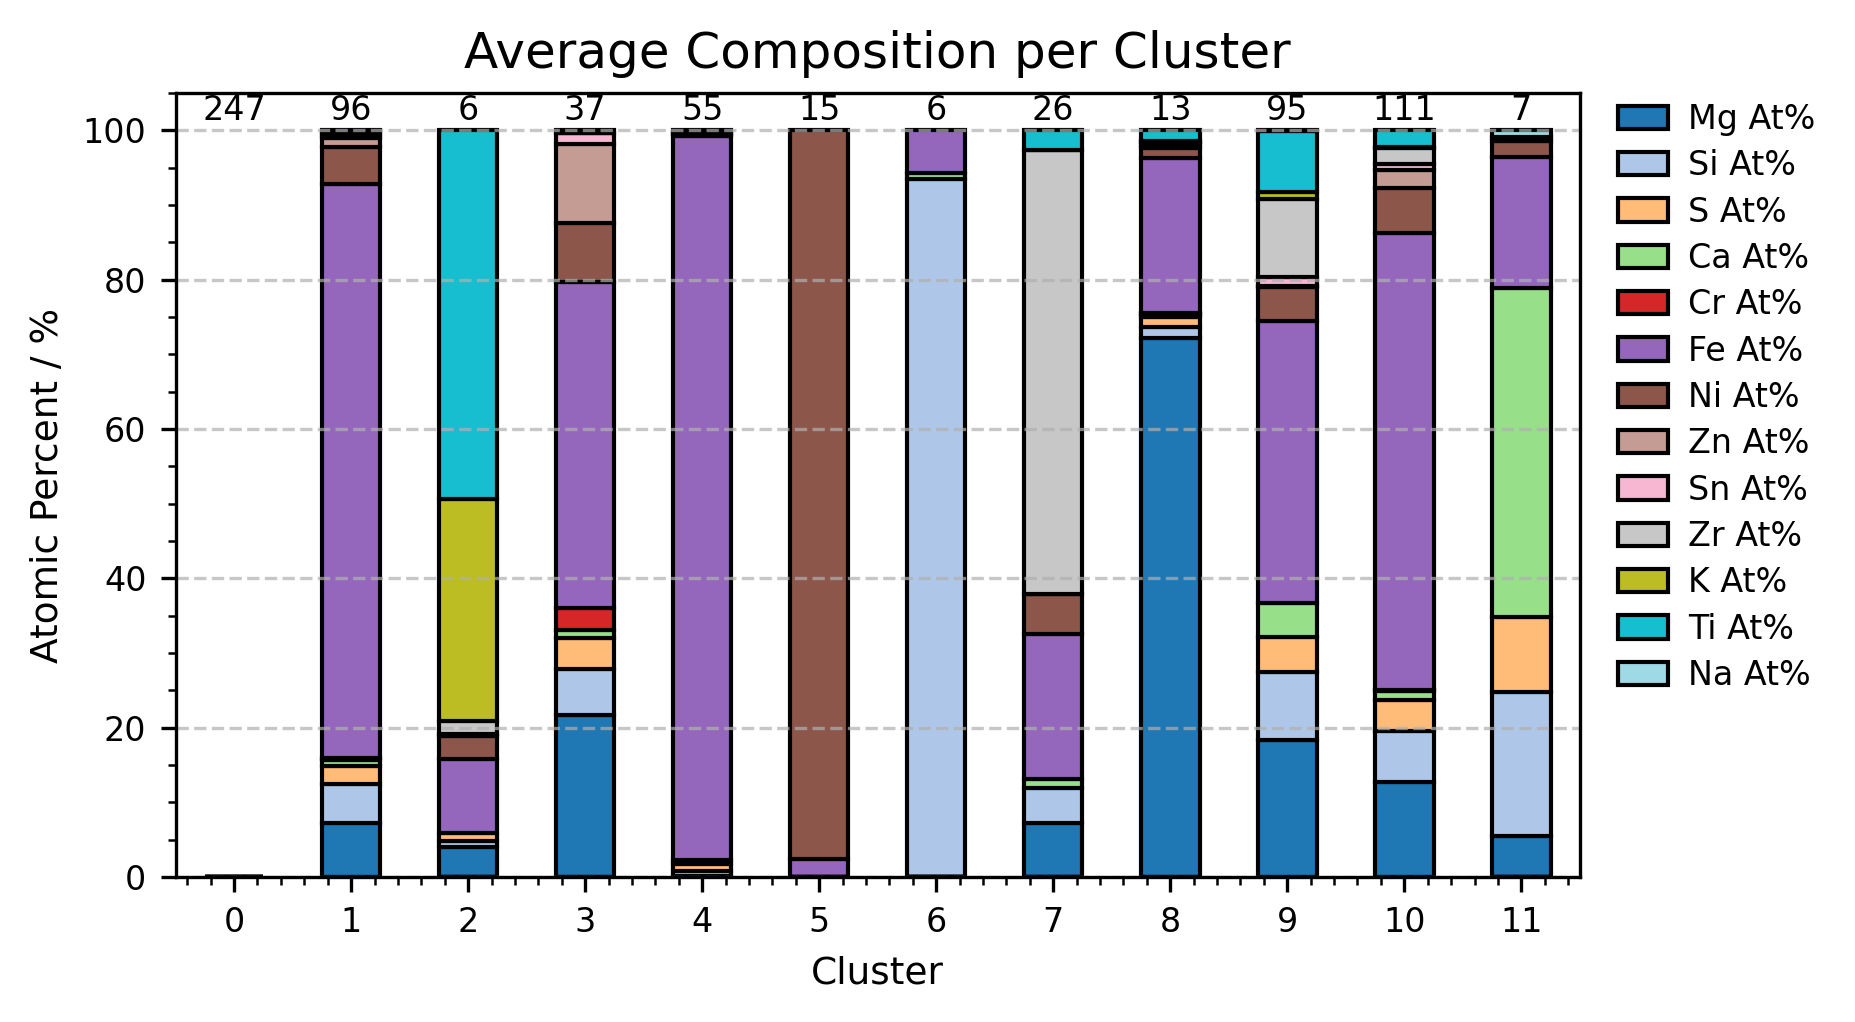
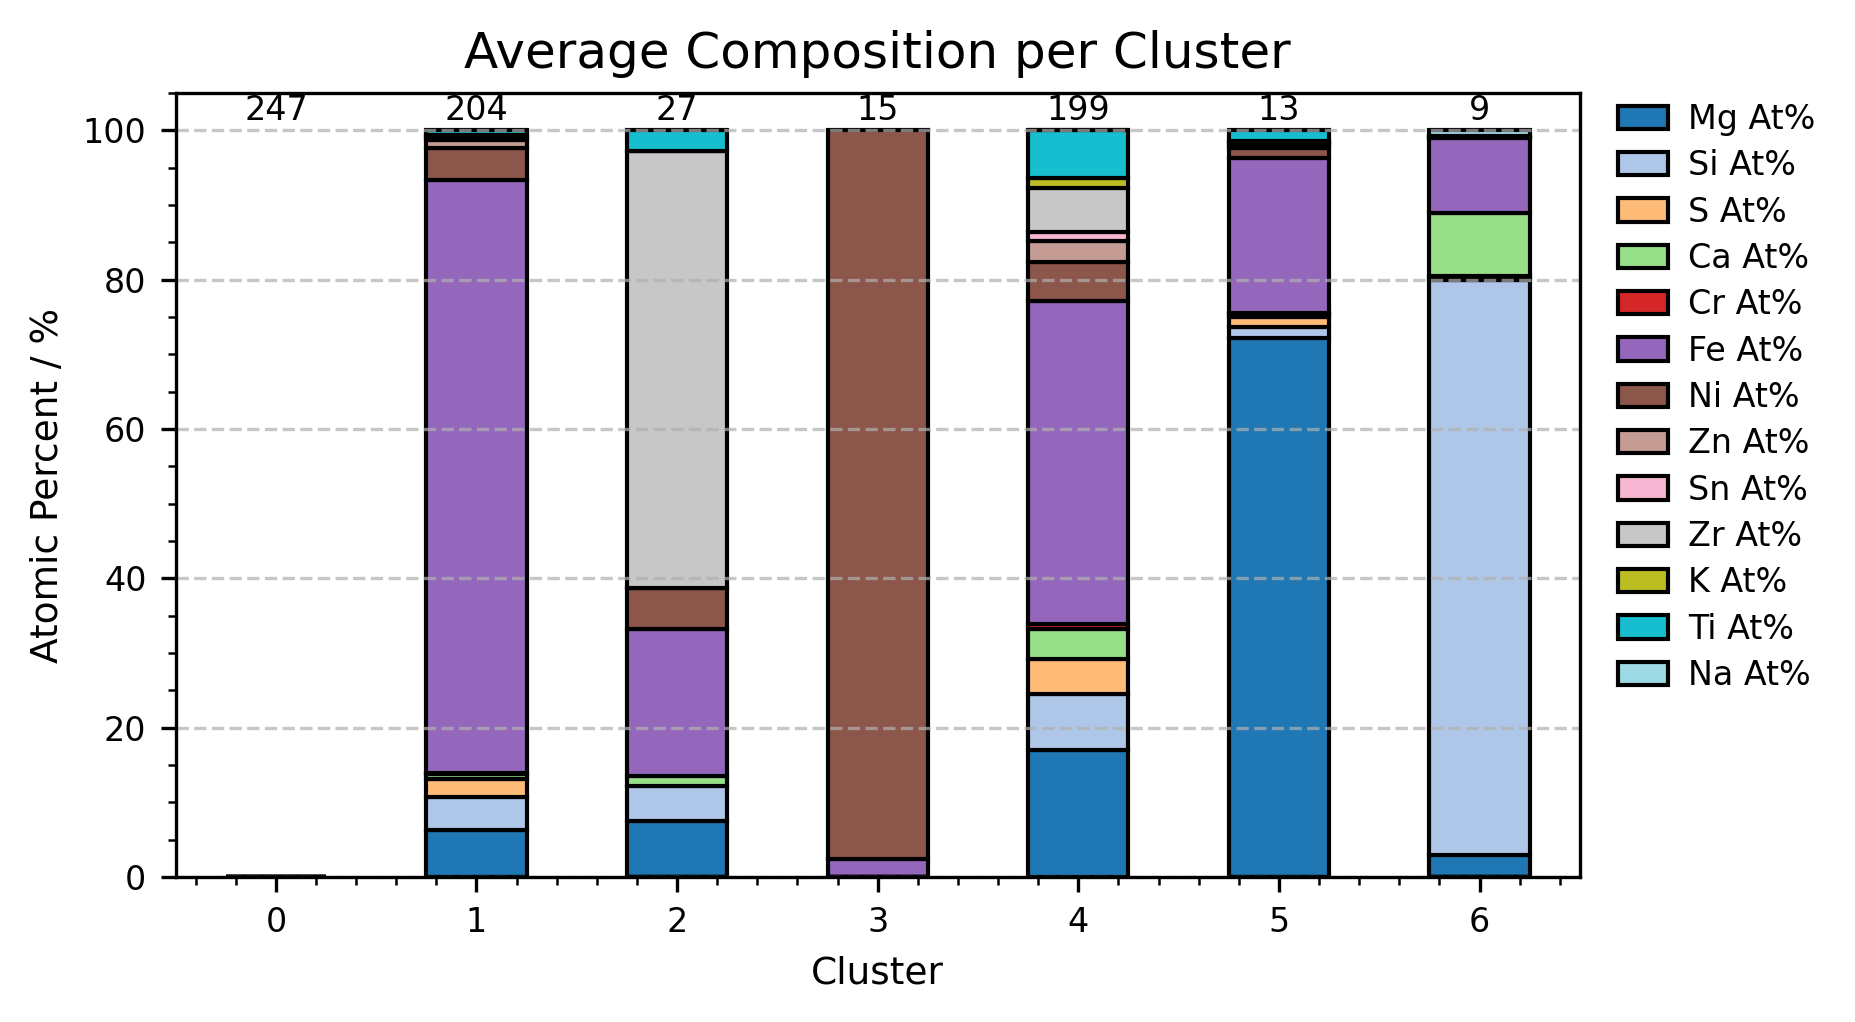
Update

diff --git a/calculations.py b/calculations.py
@@ -2,6 +2,10 @@ import numpy as np
 import pandas as pd
 from scipy import stats
 from iminuit import Minuit
+import matplotlib.pyplot as plt
+from sklearn.cluster import KMeans
+from sklearn.metrics import silhouette_score
+from sklearn.metrics import davies_bouldin_score
 #%%
 # Fit functions
 def linear_forced_zero(x, a):
@@ -541,3 +545,50 @@ def Partector_Ceff(Psize):
     Collection_efficiency = (0.43837287*Psize**(-0.48585362))
     
     return Collection_efficiency 
+
+def K_means_optimal(Kmeans_data,max_cluster=20):
+    fig,axs = plt.subplots(ncols=3, figsize = (7, 4))
+    
+    # Compute WCSS for different values of k
+    wcss = []
+    for k in range(1, max_cluster):  # Test k values from 1 to 10
+        kmeans = KMeans(n_clusters=k, random_state=42)
+        kmeans.fit(Kmeans_data)
+        wcss.append(kmeans.inertia_)
+    
+    # Plot the Elbow Curve
+    axs[0].plot(range(1, max_cluster), wcss, marker='o')
+    axs[0].set_title('Elbow Method \n Find point where plot bends')
+    axs[0].set_xlabel('Number of Clusters (k)')
+    axs[0].set_ylabel('Within-Cluster Sum of Squares (WCSS)')
+    
+    silhouette_scores = []
+    for k in range(2, max_cluster):  # Test k values from 2 to cluster (Silhouette requires at least 2 clusters)
+        kmeans = KMeans(n_clusters=k, random_state=42)
+        labels = kmeans.fit_predict(Kmeans_data)
+        score = silhouette_score(Kmeans_data, labels)
+        silhouette_scores.append(score)
+    
+    # Plot the Silhouette Scores
+    axs[1].plot(range(2, max_cluster), silhouette_scores, marker='o')
+    axs[1].set_title('Silhouette Score Method, \n Close to 1 is good')
+    axs[1].set_xlabel('Number of Clusters (k)')
+    axs[1].set_ylabel('Silhouette Score')
+    
+    db_scores = []
+    for k in range(2, max_cluster):  # Test k values from 2 to 10
+        kmeans = KMeans(n_clusters=k, random_state=42)
+        labels = kmeans.fit_predict(Kmeans_data)
+        score = davies_bouldin_score(Kmeans_data, labels)
+        db_scores.append(score)
+    
+    # Plot the Davies-Bouldin Scores
+    axs[2].plot(range(2, max_cluster), db_scores, marker='o')
+    axs[2].set_title('Davies-Bouldin Index Method \n Small values are good')
+    axs[2].set_xlabel('Number of Clusters (k)')
+    axs[2].set_ylabel('Davies-Bouldin Score')
+
+    fig.tight_layout()
+    plt.show()
+
+    return fig
